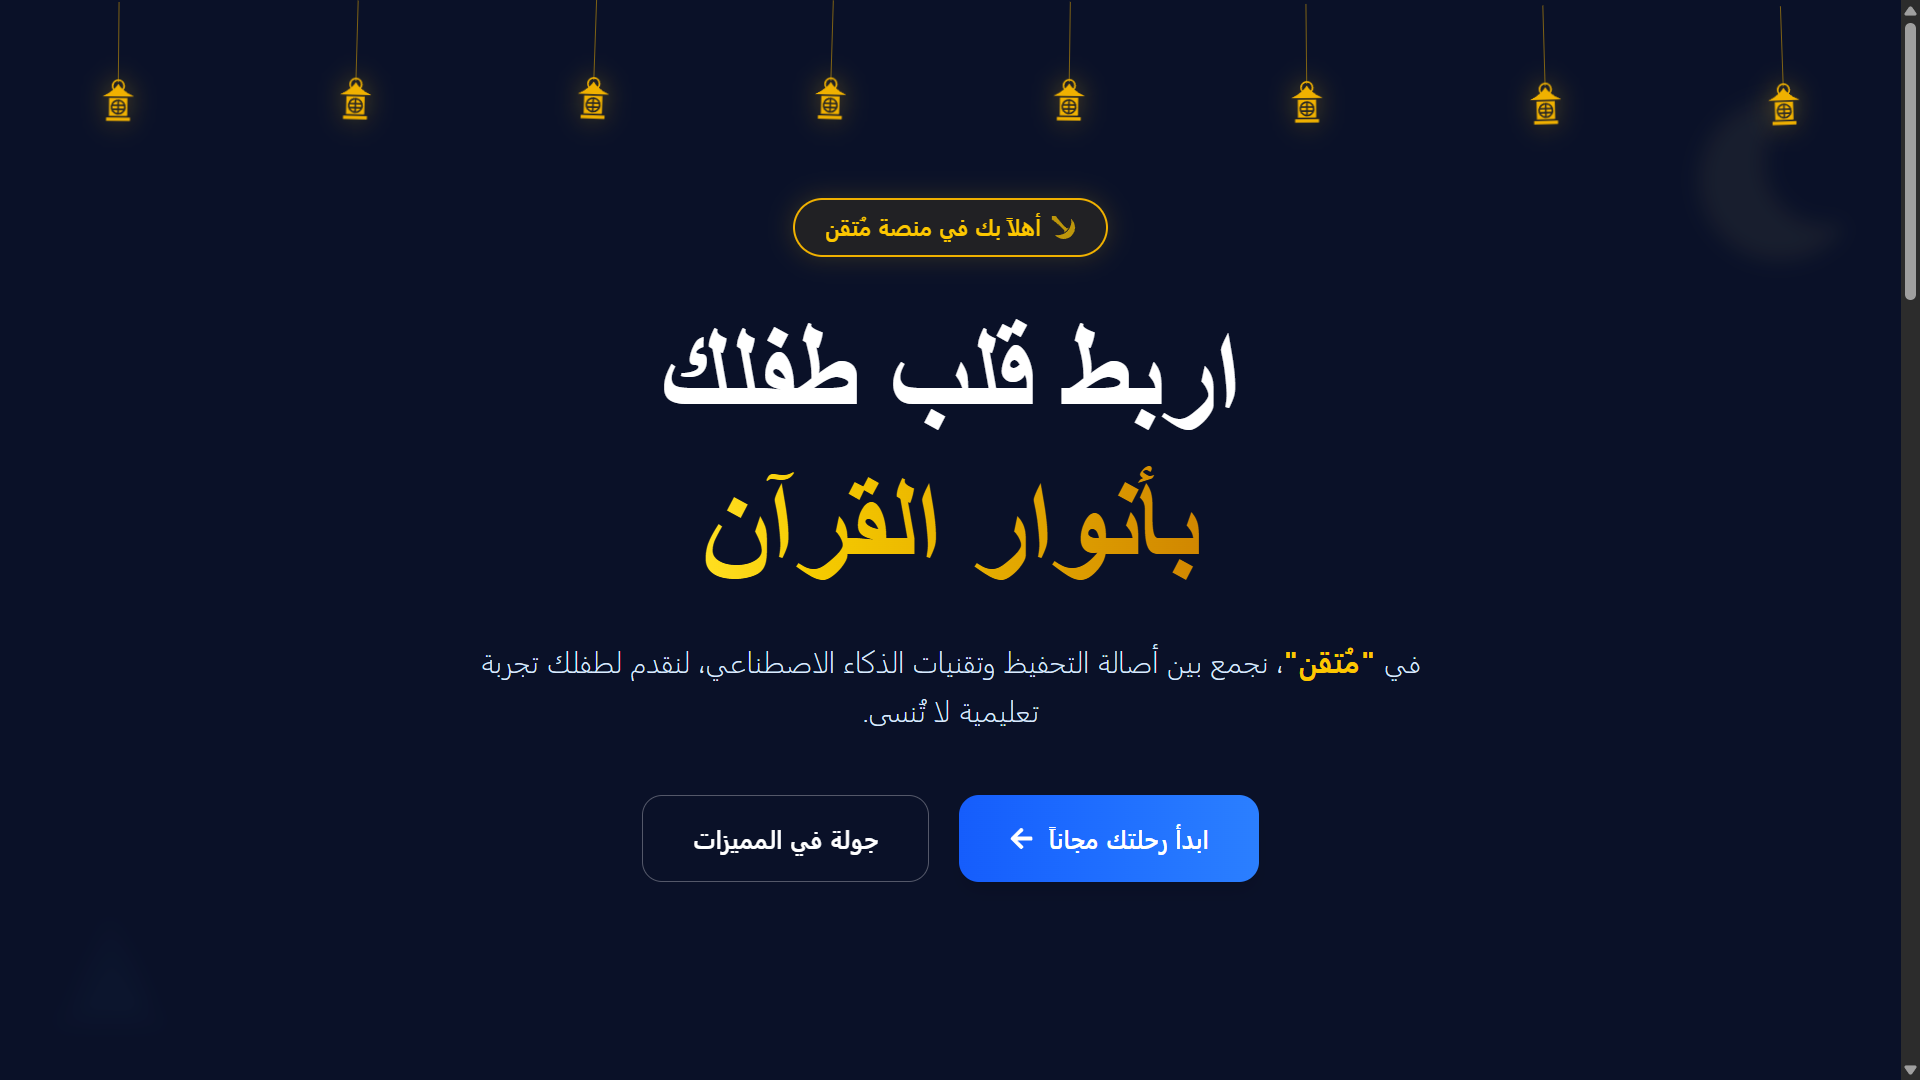
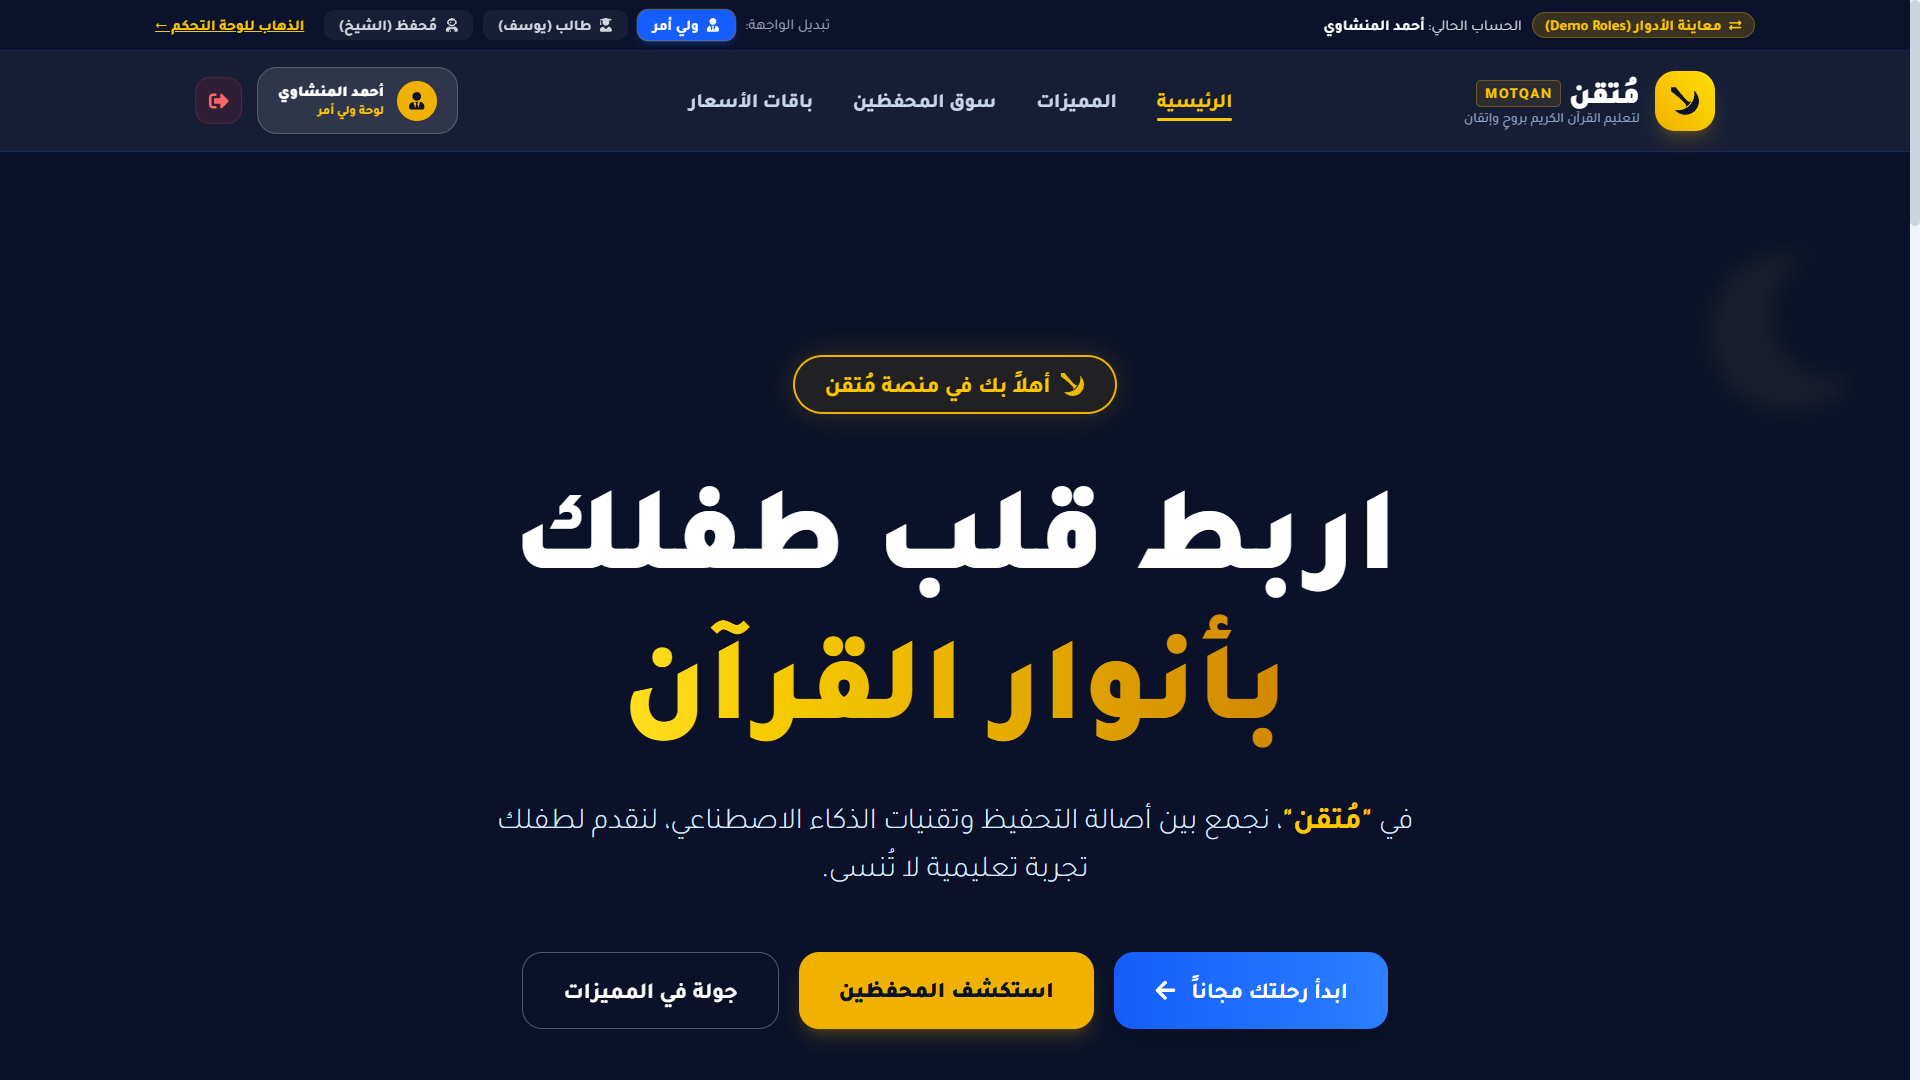
added SOL,MUTQN

diff --git a/data/projects.ts b/data/projects.ts
@@ -252,6 +252,102 @@ export const projects: Project[] = [
     ],
   },
   {
+    slug: "sol-shopify-store",
+    title: "SOL — Shopify Store",
+    description:
+      "A bilingual e-commerce storefront for SOL, a lifestyle-driven watch retailer, built with a custom Shopify theme.",
+    longDescription:
+      "SOL is a custom Shopify storefront designed for a watch retailer focused on style, character, and everyday wearability. The store features a premium burgundy and gold visual identity, bilingual Arabic and English experiences, curated watch collections, product detail pages, shopping cart, and customer contact interfaces. The project focuses on translating SOL's brand identity into a cohesive and responsive e-commerce experience.",
+    category: "Frontend",
+    featured: true,
+    status: "completed",
+    role: "Shopify Theme Developer",
+    techStack: [
+      "Shopify",
+      "Liquid",
+      "HTML5",
+      "CSS3",
+      "JavaScript",
+      "Shopify Theme Architecture",
+      "Responsive Web Design",
+    ],
+    imageCount: 10,
+    images: [
+      {
+        src: "/images/projects/sol-shopify-store/main.png",
+        alt: "SOL Shopify storefront homepage",
+      },
+      {
+        src: "/images/projects/sol-shopify-store/2.png",
+        alt: "Home Arabic",
+      },
+      {
+        src: "/images/projects/sol-shopify-store/3.png",
+        alt: "Cart",
+      },
+      {
+        src: "/images/projects/sol-shopify-store/4.png",
+        alt: "Cart Message",
+      },
+      {
+        src: "/images/projects/sol-shopify-store/5.png",
+        alt: "SOL Search",
+      },
+      {
+        src: "/images/projects/sol-shopify-store/6.png",
+        alt: "SOL Product detail page",
+      },
+      {
+        src: "/images/projects/sol-shopify-store/7.png",
+        alt: "SOL Collection page",
+      },
+      {
+        src: "/images/projects/sol-shopify-store/8.png",
+        alt: "SOL All Watches page",
+      },
+      {
+        src: "/images/projects/sol-shopify-store/9.png",
+        alt: "SOL About page",
+      },
+      {
+        src: "/images/projects/sol-shopify-store/10.png",
+        alt: "SOL Contact page",
+      },
+    ],
+    githubUrl: "https://github.com/Hosam-Mostafa-2005/SOL-Shopify-Store",
+    features: [
+      "Custom Shopify theme development using Liquid",
+      "Bilingual Arabic and English storefront",
+      "Responsive layouts for desktop and mobile",
+      "Product listing and product detail pages",
+      "Curated product collections and collection browsing",
+      "Shopping cart interface",
+      "Custom homepage and brand storytelling sections",
+      "Customer contact page and WhatsApp contact entry points",
+      "Consistent burgundy and gold visual identity",
+      "Reusable Shopify sections and snippets",
+    ],
+    highlights: [
+      "Translated SOL's visual identity into a cohesive e-commerce storefront.",
+      "Built reusable Shopify theme sections and Liquid templates.",
+      "Designed bilingual shopping experiences for Arabic and English audiences.",
+      "Created dedicated interfaces for product discovery, collections, and customer support.",
+    ],
+    challenges: [
+      "Maintaining consistent visual design across multiple storefront pages.",
+      "Supporting Arabic and English layouts and content.",
+      "Structuring reusable Shopify sections and snippets.",
+      "Presenting watch products through a consistent premium brand experience.",
+    ],
+    learnings: [
+      "Shopify theme architecture and Liquid templating.",
+      "Building reusable Shopify sections and snippets.",
+      "Creating responsive e-commerce interfaces.",
+      "Structuring bilingual storefront experiences.",
+      "Translating brand identity into a consistent digital shopping experience.",
+    ],
+  },
+  {
     slug: "movies-app",
     title: "Movies App",
     description:
@@ -447,6 +543,7 @@ export const projects: Project[] = [
       },
     ],
     githubUrl: "https://github.com/Hosam-Mostafa-2005/Motqn",
+    liveUrl: "https://motqn-drab.vercel.app/",
     features: [
       "Teacher and parent-focused platform experience",
       "Quran learning and memorization platform",
